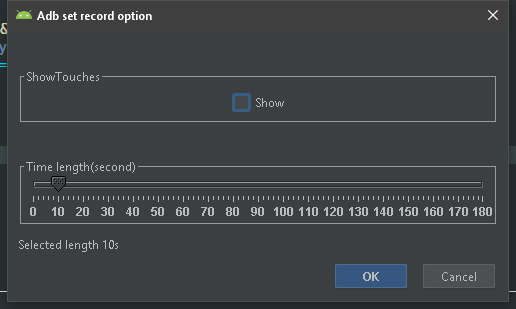
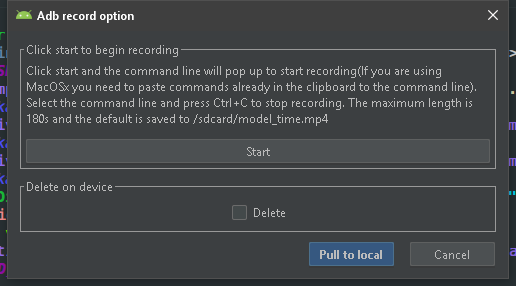
add document

diff --git a/src/main/kotlin/com/developerphil/adbidea/HelperMethods.kt b/src/main/kotlin/com/developerphil/adbidea/HelperMethods.kt
@@ -24,11 +24,9 @@ fun showErrorMsg(msg:String){
 
 
 fun openFileExplorer(path: String){
-    if (OS.isWindows()) {
-        Runtime.getRuntime().exec(arrayOf("cmd", "/C", "start $path"))
-    }else if (OS.isMacOSX()) {
-        ProcessBuilder("open",path).start()
-    }else if (OS.isLinux()){
-        Runtime.getRuntime().exec("nautilus $path")
+    when {
+        OS.isWindows() -> Runtime.getRuntime().exec(arrayOf("cmd", "/C", "start $path"))
+        OS.isMacOSX() -> ProcessBuilder("open",path).start()
+        OS.isLinux() -> Runtime.getRuntime().exec("nautilus $path")
     }
 }

diff --git a/1.6ChineseGuide.md b/1.6ChineseGuide.md
@@ -93,7 +93,9 @@
 
   ![](website/putString.png)
 
-  首先在手机上让目标EditText获取焦点,让后ok就能推过去了,遗憾的是不支持汉字,空格会被去掉.
+  首先在手机上让目标EditText获取焦点,让后ok就能推过去了,遗憾的是不支持汉字,空格会被去掉.需要注意的是在部分输入法状态下,并不会直接输入,还需要点一下.
+
+  ![](website/simpleString.png)
 
 - [屏幕截图](https://github.com/mzlogin/awesome-adb#%E5%B1%8F%E5%B9%95%E6%88%AA%E5%9B%BE)
 
@@ -107,24 +109,26 @@
 
 - [录制屏幕](https://github.com/mzlogin/awesome-adb#%E5%BD%95%E5%88%B6%E5%B1%8F%E5%B9%95)
 
-  1. 选择要保存到的文件夹.
-
-     ![](website/record1.png)
-
-  2. 选择录制时长,最大180s:
+  1. 点击start开始录制,Windows和Linux都是自动开始的,但是macOS不能自动开始录制,需要把已经放到剪贴板的命令粘贴到命令行中回车开始.昨天整整研究一天也没有发现macOS能从Runtime或者ProcessBuilder启动命令行然后执行一个命令的方法,如果你知道的话请告诉我,谢谢.按Ctrl+C停止录制.
 
      ![](website/record2.png)
 
-  3. 录制完成后会自动打开保存目录:
+     ![](website/record4.png)
+
+  2. 录制完成后点击Pull to local->选择保存路径,拉取到本地,视频默认保存在手机的/sdcard中,勾选delete会删除sdcard中的视频:
+
+     ![](website/record1.png)
+
+  3. 拉取完成后会自动打开保存目录:
 
 
   ![](website/record3.png)
 
-  存在的问题是有几秒钟的延迟....😅目前还没有找到原因.
+  录制的视频存在的问题是有一丢丢延迟....😅应该的adb的原因.
 
 ## 下载
 
-- 下载[`最新发布的插件包`](https://github.com/longforus/adb-idea/releases/tag/1.6) > File >Preferences(Settings) > Plugins > Install plugin from disk...
+- 下载[`最新发布的插件包`](https://github.com/longforus/adb-idea/releases) > File >Preferences(Settings) > Plugins > Install plugin from disk...
 
 ## 致谢
 
@@ -132,6 +136,7 @@
 
 - 感谢 [ADB Usage Complete / ADB 用法大全](https://github.com/mzlogin/awesome-adb) 仓库贡献者的收集整理
 - 感谢 [pbreault/**adb-idea**](https://github.com/pbreault/adb-idea) 的优秀开源插件
+- 感谢鸿洋大神的试用测试和修改建议.开发之初因为偷懒和自己也一直都在Windows平台开发,就没有太多的关注其他平台,导致1.6版本的部分功能在其他平台上失效.周末抽时间搭建虚拟机进行了Linux和macOS的测试适配.因为这2个平台了解都不深入,要是这2个平台的用户在使用中遇到什么问题,请联系我.
 
 
 欢迎大家试用,star,issue.你的star是我的动力.谢谢.

diff --git a/1.6EnglishGuide.md b/1.6EnglishGuide.md
@@ -100,24 +100,24 @@ The above functions are integrated into: Application in Interacting.
 
 - [recording screen](https://github.com/mzlogin/awesome-adb#%E5%BD%95%E5%88%B6%E5%B1%8F%E5%B9%95)
 
-  1. Select the folder to save to.
-
-     ![](website/record1.png)
-
-  2. Select recording time, maximum 180s:
+  1. Click start to start recording, Windows and Linux are started automatically, but macOS doesn't automatically start recording, need to have in the clipboard command affixed to the command line, press enter to start. Yesterday, the entire day also didn't find macOS can start from the Runtime or ProcessBuilder method of command line and then execute a command, if you know please tell me, thank you. Press Ctrl + C to stop recording.
 
      ![](website/record2.png)
 
-  3.  After recording, the save directory will be opened automatically:
+     ![](website/record4.png)
+
+  2. After recording, click Pull to local-> to select the saving path and Pull to local. Video is saved by default in the /sdcard/ of the phone. Tick delete to delete video in sdcard:
+
+     ![](website/record1.png)
+
+  3.  The save directory will be opened automatically after pulling and fetching:
 
 
   ![](website/record3.png)
 
-  The problem is that there is a delay of several seconds...
-
 ## download
 
-- download[`Newly released plug-in packages`](https://github.com/longforus/adb-idea/releases/tag/1.6) > File >Preferences(Settings) > Plugins > Install plugin from disk...
+- download[`Newly released plug-in packages`](https://github.com/longforus/adb-idea/releases) > File >Preferences(Settings) > Plugins > Install plugin from disk...
 
 ## thanks
 
